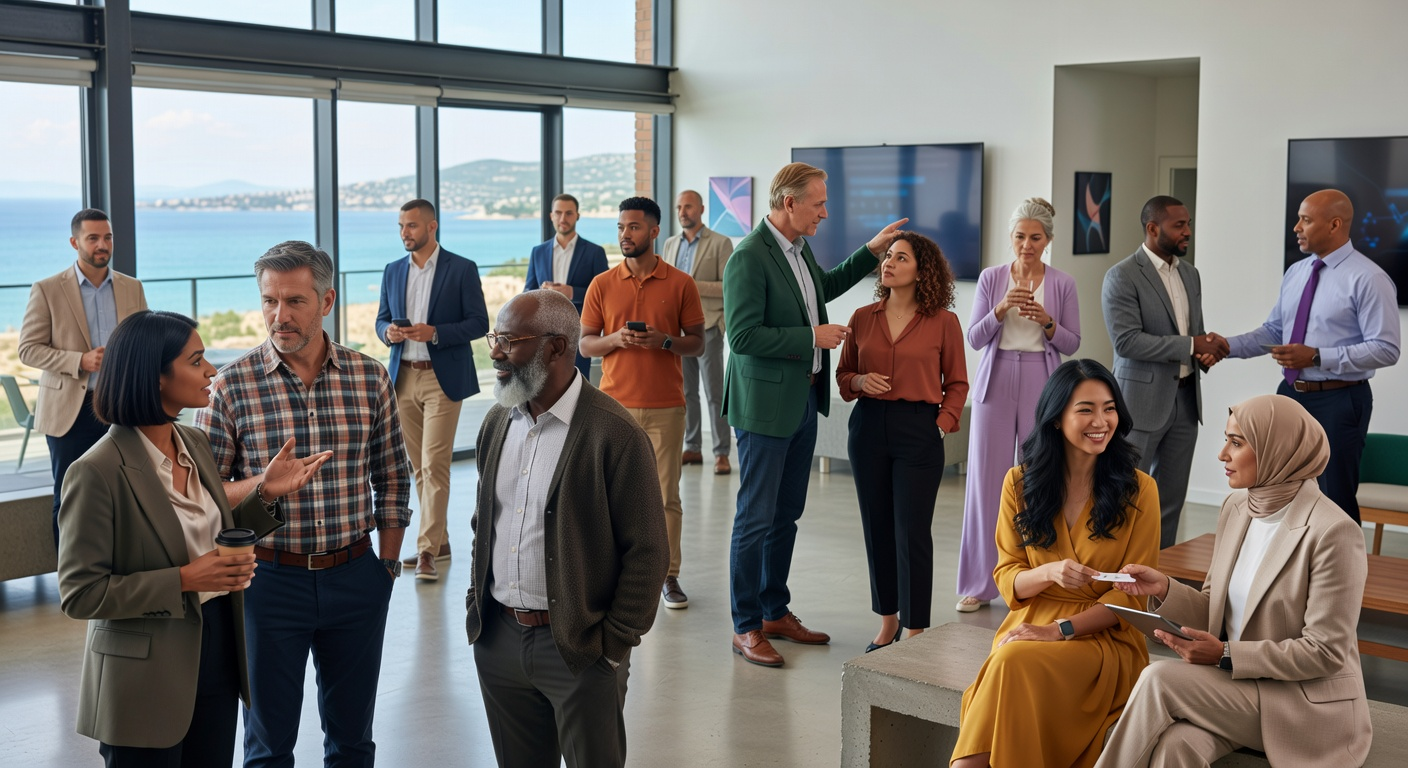
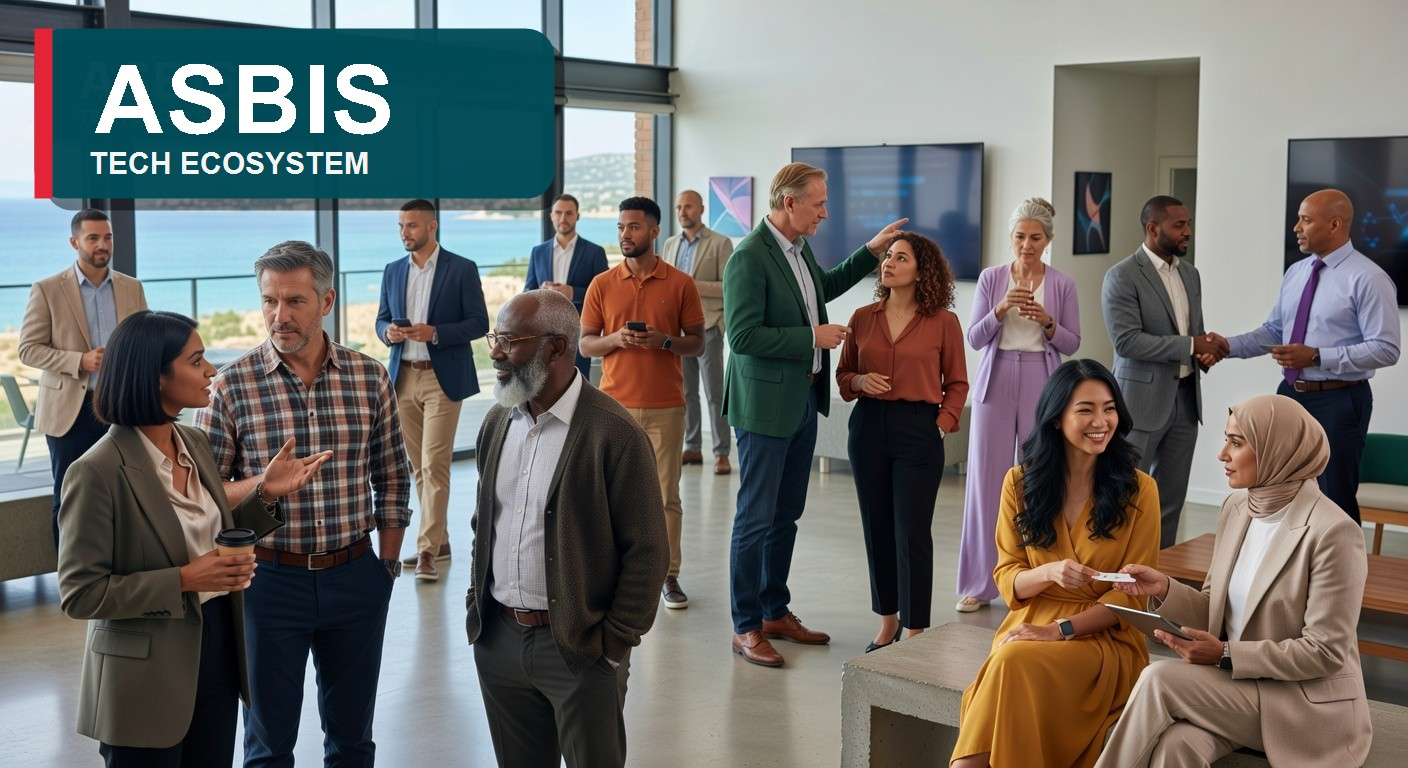
Add distinct ASBIS blog images

Changed region(s): [[0.0, 0.0312, 0.4062, 0.2812]]

diff --git a/src/payload.config.ts b/src/payload.config.ts
@@ -32,12 +32,11 @@ const payloadSecret =
   process.env.PAYLOAD_ADMIN_PASSWORD ||
   'payload-ai-tester-workbench-secret-change-me'
 const databaseSchemaName = process.env.PAYLOAD_DB_SCHEMA || undefined
-const plugPlayImageURL = '/seo/grok-test-blog.jpeg'
-const plugPlayDemoFilenames = [
-  'PlugPlay_750x350.jpg',
-  'PlugPlay_750x350-2.jpg',
-  'PlugPlay_750x350-3.jpg',
-]
+const plugPlayDemoImages: Record<string, string> = {
+  'PlugPlay_750x350.jpg': '/seo/grok-test-blog.jpeg',
+  'PlugPlay_750x350-2.jpg': '/seo/grok-test-blog-inline-2.jpeg',
+  'PlugPlay_750x350-3.jpg': '/seo/grok-test-blog-inline-1.jpeg',
+}
 
 const richTextParagraph = ({ text }: { text: string }) => ({
   root: {
@@ -133,7 +132,7 @@ export default buildConfig({
       })
     }
 
-    for (const filename of plugPlayDemoFilenames) {
+    for (const [filename, externalImageURL] of Object.entries(plugPlayDemoImages)) {
       const media = await payload.find({
         collection: mediaSlug,
         limit: 1,
@@ -145,11 +144,11 @@ export default buildConfig({
       })
       const mediaDoc = media.docs[0]
 
-      if (mediaDoc && mediaDoc.externalImageURL !== plugPlayImageURL) {
+      if (mediaDoc && mediaDoc.externalImageURL !== externalImageURL) {
         await payload.update({
           collection: mediaSlug,
           data: {
-            externalImageURL: plugPlayImageURL,
+            externalImageURL,
           },
           id: mediaDoc.id,
         })